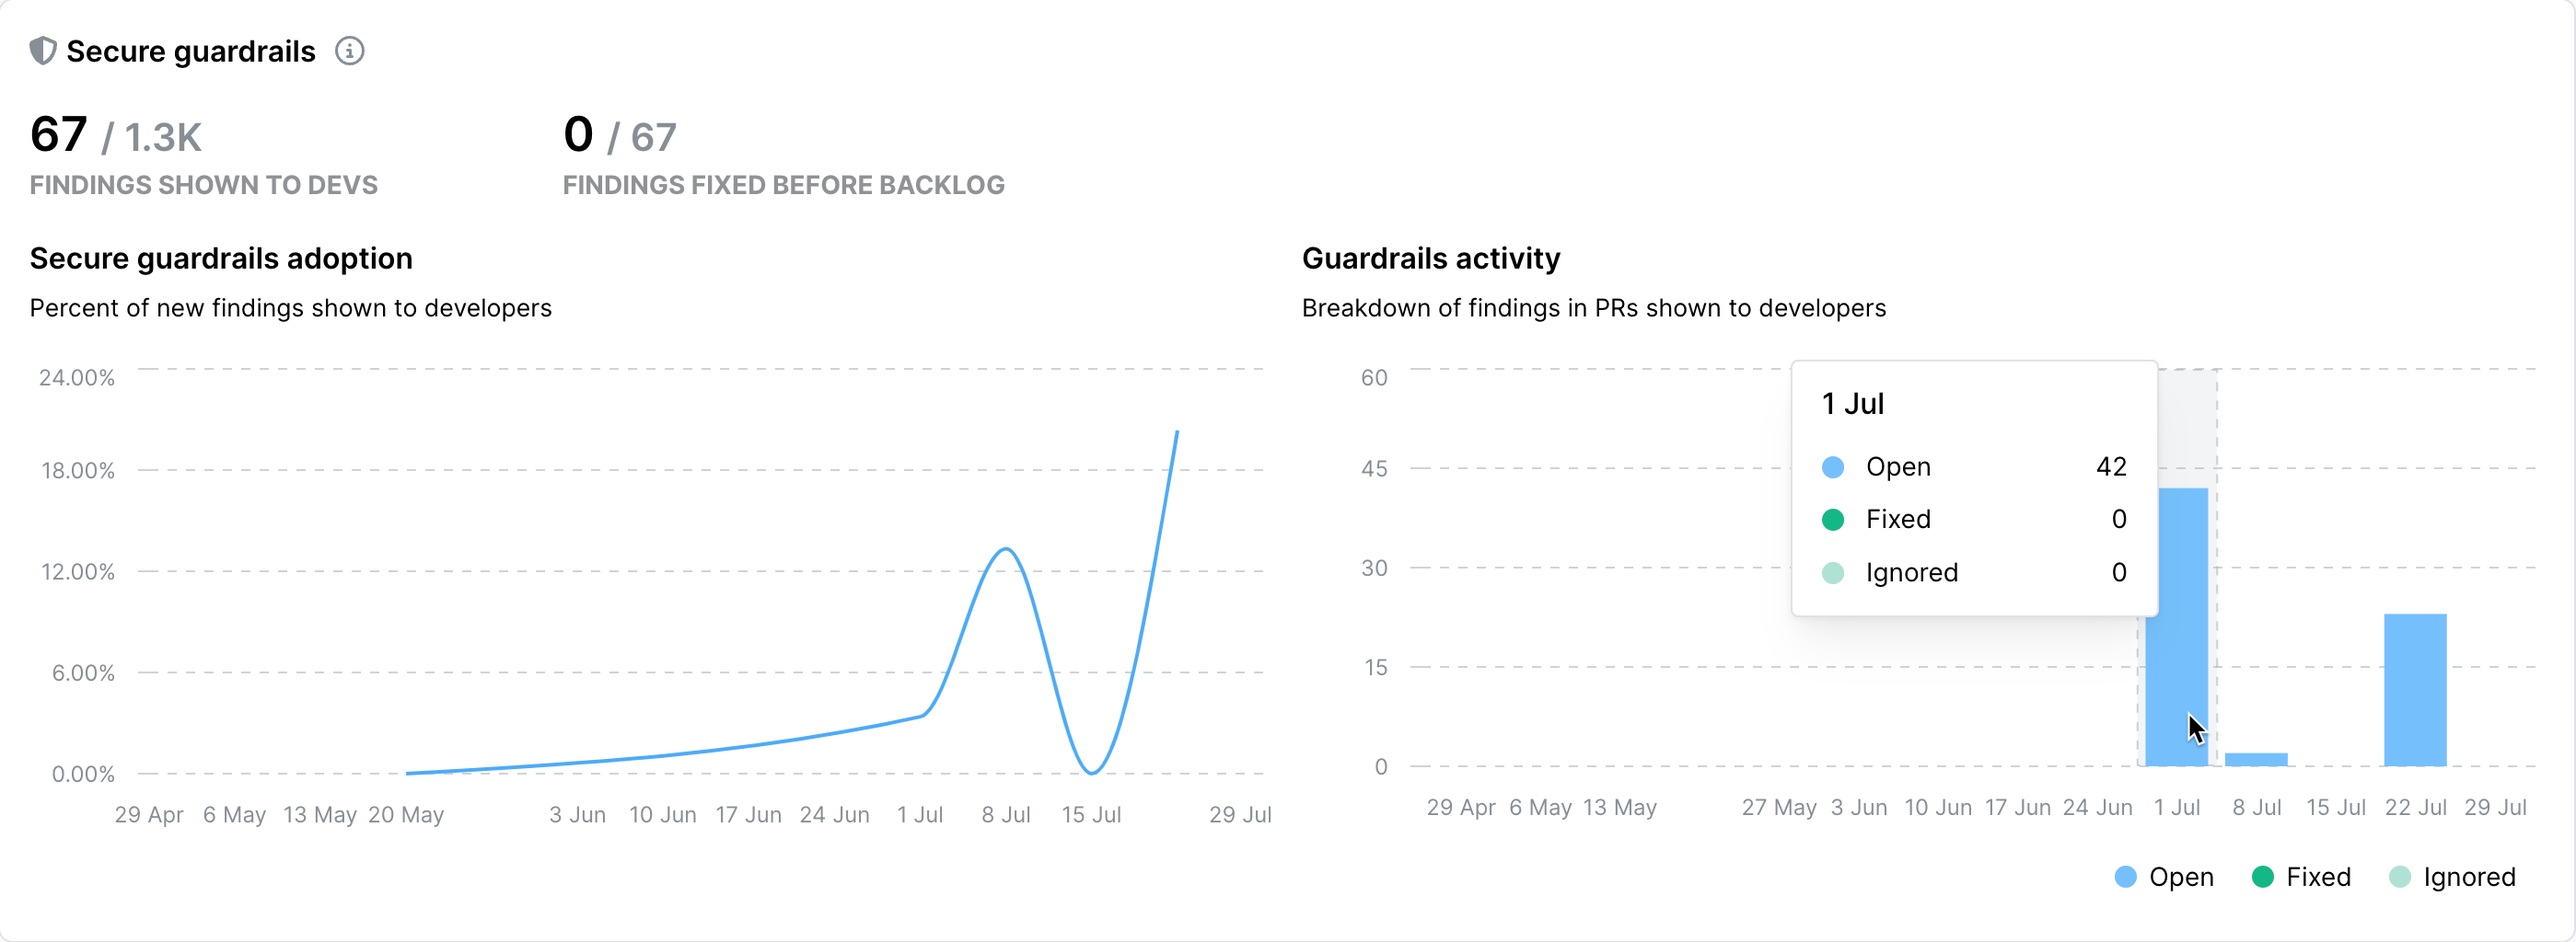
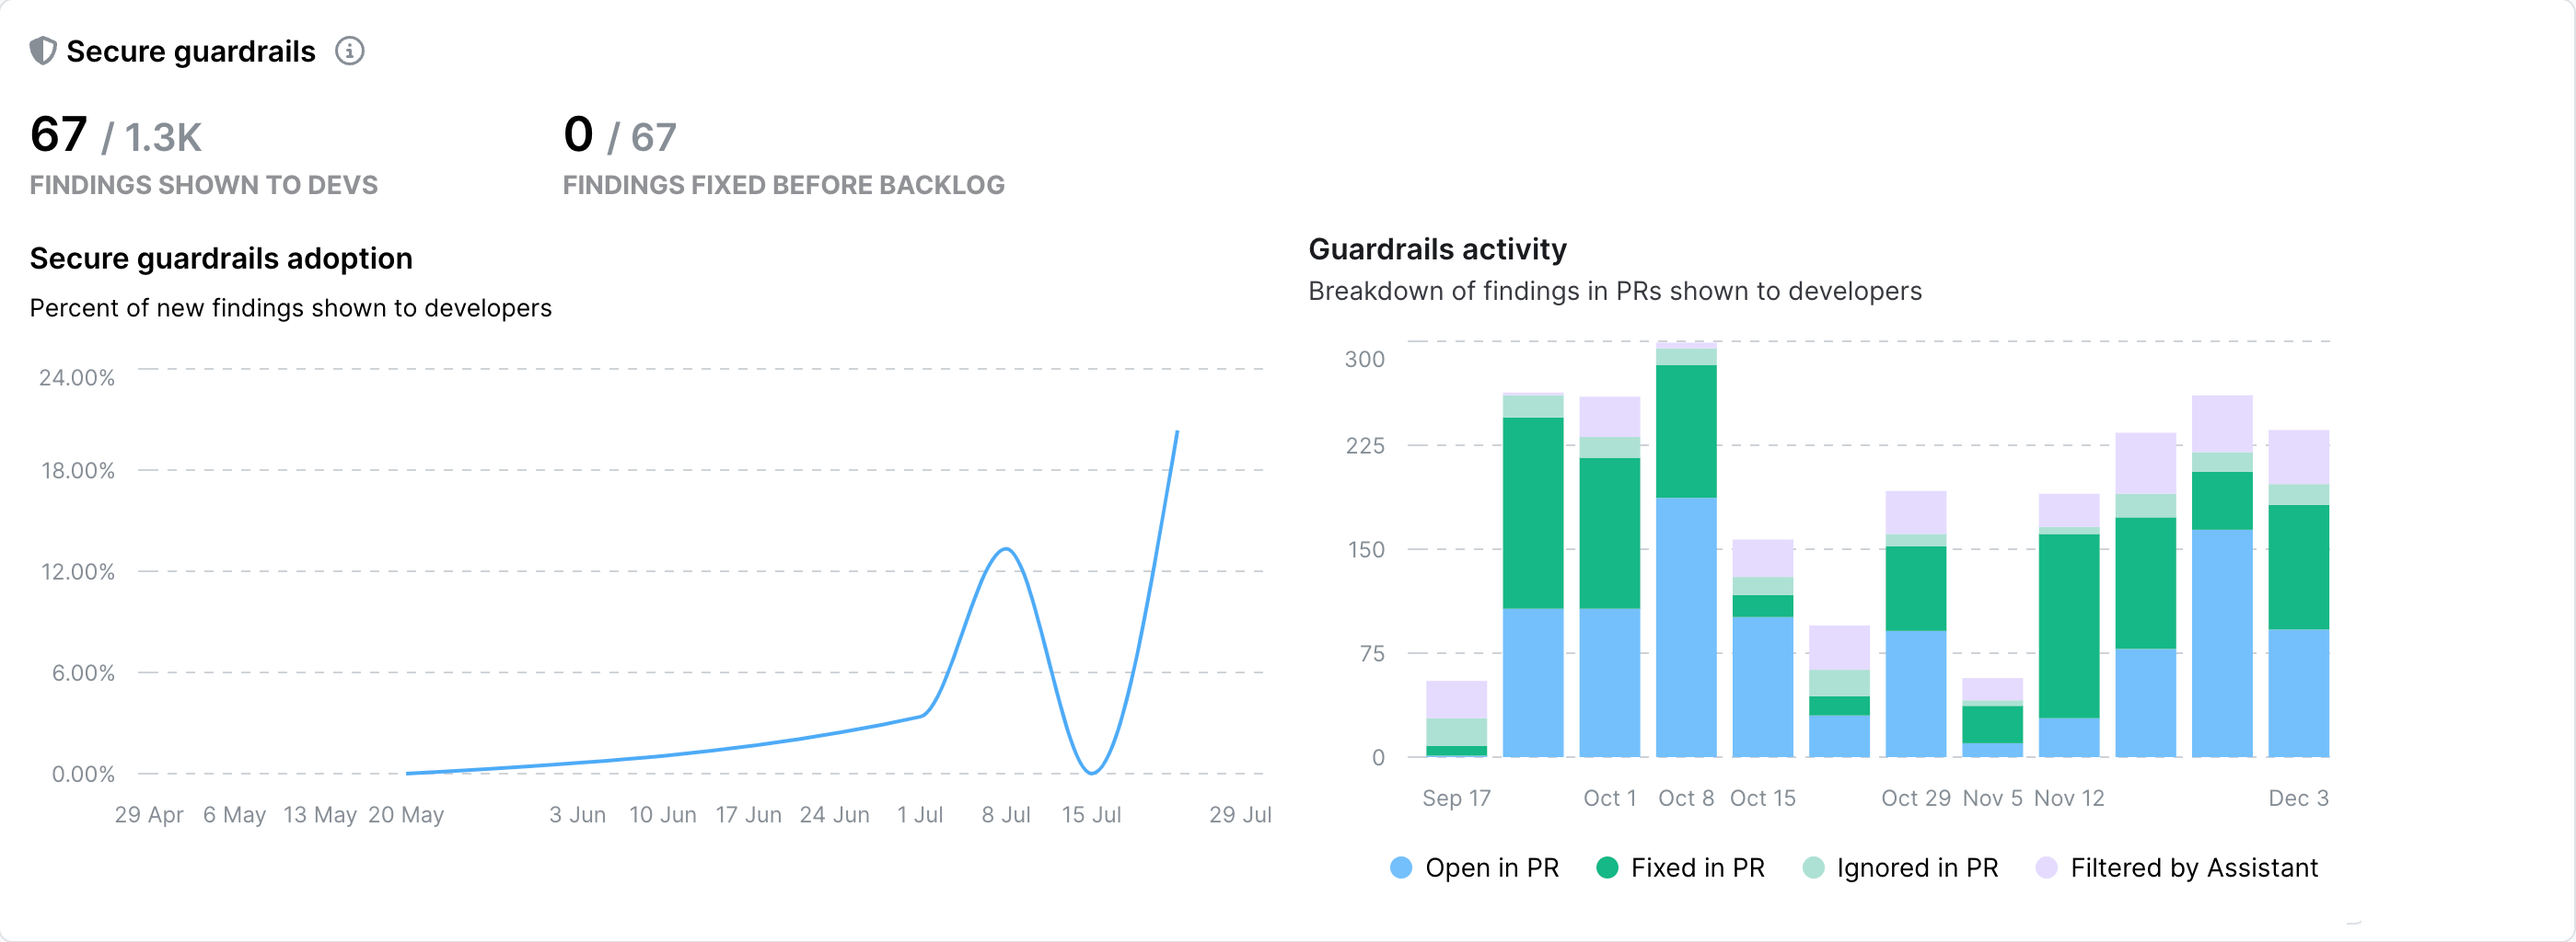
update dashboard doc

diff --git a/docs/semgrep-appsec-platform/dashboard.md b/docs/semgrep-appsec-platform/dashboard.md
@@ -171,10 +171,10 @@ A low or 0 value for **Total net new** is ideal as it indicates that findings ar
 
 ## Secure guardrails
 
-This provides an overview of how secure guardrails in **PR or MR comments** are used in your organization. Other guardrail interfaces, such as the IDE or `pre-commit`, are not counted in this section.
+This provides an overview of how secure guardrails in **PR or MR comments** are used in your organization, as well as how often [Semgrep Assistant filters out false positives](/semgrep-assistant/overview#noise-filtering) and suppresses PR or MR comments, reducing noise for developers. Other guardrail interfaces, such as the IDE or `pre-commit`, are not counted in this section.
 
 ![Secure guardrails pane](/img/dashboard-guardrails.png)
-_**Figure**. Secure guardrails pane. Hover over the charts to view data for that point in time._
+_**Figure**. Secure guardrails pane. Hover over the charts to view data for that point in time. Click on Assistant data to view filtered findings on Code > Pre-production._
 
 ### Key metrics
 
